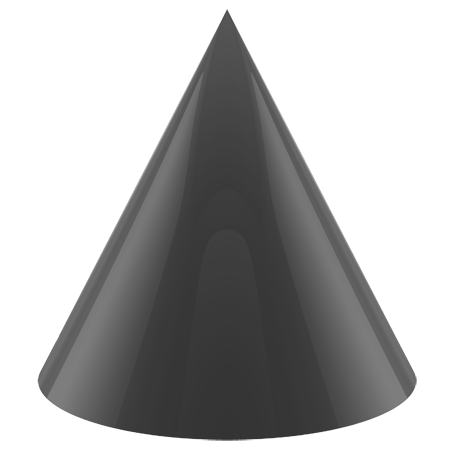
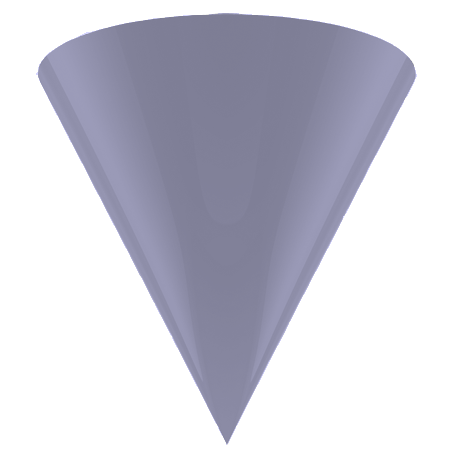
added cone, made move

diff --git a/new-volume/index.html b/new-volume/index.html
@@ -31,12 +31,12 @@
 	<img src="img/thirteen.png" alt="" id="thirteen" data-stellar-ratio="1.2">
 	<img src="img/typewriter.png" alt="" id="typewriter" data-stellar-ratio="1.1">
 	<div class="blue-container" id="first-container">
-		<img src="img/cone.png" alt="" id="cone">
+		<img src="img/cone.png" alt="" id="cone" data-stellar-ratio="0.7">
 		<img src="img/ruskin-quote.png" alt="'How long most people would look at the best book before they would give the price of a large turbot for it?' John Ruskin" id="ruskin-quote">
 	</div>
 	<div id="musicians" class="callout">
-		<h2>The Musicians ...</h2>
-		<p>Lorem ipsum dolor sit amet, consectetuer adipiscing elit, sed diam nonummy nibh euismod tincidunt ut laoreet dolore magna aliquam erat volutpat.</p>
+		<h2>Band of Hope Union</h2>
+		<p>Trains go over our heads. Our windowless arch sits underneath the lines. Twisting iron pins. Shaking stone and ballast. Imagine no driver, screaming machinery, unstoppable. We hit our own harmonic lines. The grinding squall of train-to-track. Strings on frets. Our underground skyline is made of guitars, drums, pianos, violins. The ghost in our strings wants out.</p>
 		<p>
 			<a href="http://www.facebook.com/pages/Band-Of-Hope-Union/126148860806724">Facebook</a>
 			<a href="https://twitter.com/#!/bandofhopeunion">Twitter</a>

diff --git a/new-volume/css/style.css b/new-volume/css/style.css
@@ -197,13 +197,11 @@ div#first-container {
   left:0px;
 }
 img#cone {
-  /* TODO - need proper image */
-  display: none;
   position: absolute;
-  top: 186px;
-  left: 314px;
-  width: 100px;
-  height: 100px;
+  top: 204px;
+  left: 273px;
+  width: 454px;
+  height: 454px;
 }
 img#ruskin-quote {
   position: absolute;
